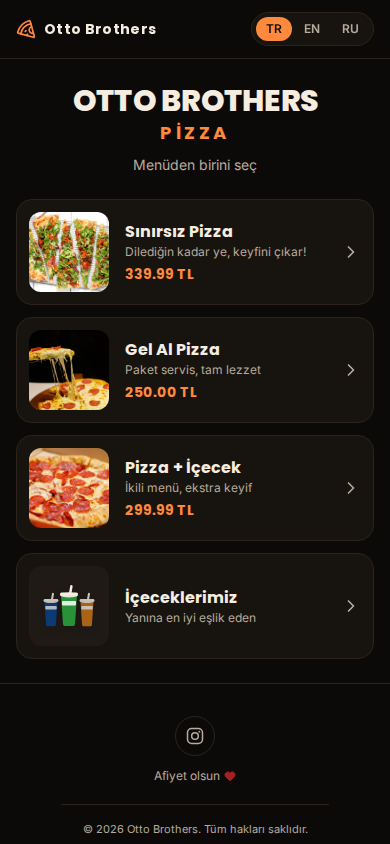
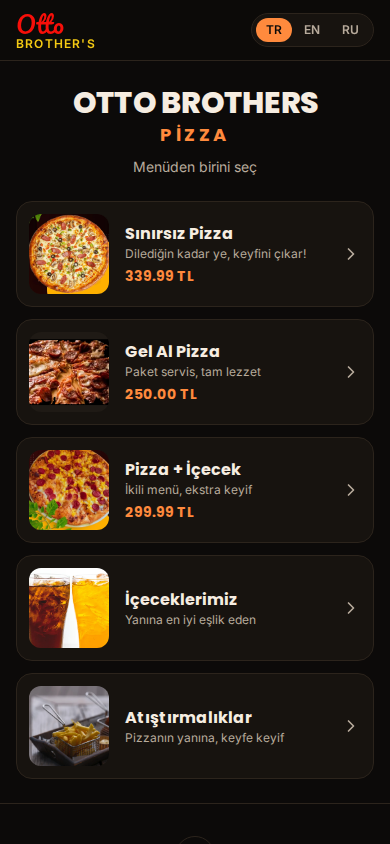
Update README to final state: 5 categories, policy notes, new screenshots

diff --git a/README.md b/README.md
@@ -3,16 +3,20 @@
 Otto Brothers Pizza için hazırlanmış, tamamen ücretsiz araçlarla geliştirilip barındırılan, çok dilli ve animasyonlu bir dijital QR menü.
 
 <p align="center">
-  <img src="docs/screenshots/home.png" width="260" alt="Ana sayfa" />
-  <img src="docs/screenshots/sinirsiz-pizza.png" width="260" alt="Sınırsız Pizza detay sayfası" />
-  <img src="docs/screenshots/icecekler.png" width="260" alt="İçecekler sayfası" />
+  <img src="docs/screenshots/home.png" width="230" alt="Ana sayfa" />
+  <img src="docs/screenshots/sinirsiz-pizza.png" width="230" alt="Sınırsız Pizza detay sayfası" />
+  <img src="docs/screenshots/icecekler.png" width="230" alt="İçecekler sayfası" />
+  <img src="docs/screenshots/atistirmaliklar.png" width="230" alt="Atıştırmalıklar sayfası" />
 </p>
 
 ## Öne çıkanlar
 
-- **4 kategori, tek dokunuşla erişim** — Sınırsız Pizza, Gel Al Pizza, Pizza + İçecek, İçeceklerimiz
+- **5 kategori, tek dokunuşla erişim** — Sınırsız Pizza, Gel Al Pizza, Pizza + İçecek, İçeceklerimiz, Atıştırmalıklar
 - **Pizza dilimi temalı geçiş animasyonu** — kategoriler arası geçişte ve ilk açılışta GSAP ile özel bir "dilim birleşme/dağılma" efekti
+- **İki tonlu marka logosu** — broşürdeki "Otto Brother's" yazısından ilham alan script/bold wordmark, header'da her sayfada görünür
 - **3 dil desteği** — Türkçe, İngilizce, Rusça (react-i18next), tercih tarayıcıda hatırlanır
+- **İşletme politikaları menüde net şekilde belirtilir** — israf bedeli uyarısı, tezgahtan/masadan artan pizzaların sokak hayvanlarına verilmesi, 0-4 yaş çocuklara ücretsiz sınırsız menü
+- **Gerçek ürün fotoğrafları** — pizza çeşitleri ve tüm içecekler (Pepsi, Pepsi Max, 7up, Yedigün, Lipton Ice Tea, Fruko Gazoz) gerçek ürün görselleriyle, tutarlı siyah zeminle
 - **`prefers-reduced-motion` desteği** — animasyonlar erişilebilirlik tercihine göre otomatik sadeleşir
 - **Mobil öncelikli tasarım** — QR ile taranan bir menü olarak %100 telefon deneyimine göre kurgulandı
 
@@ -25,18 +29,18 @@ Otto Brothers Pizza için hazırlanmış, tamamen ücretsiz araçlarla geliştir
 | Stil | Tailwind CSS v4 |
 | Animasyon | GSAP |
 | Çoklu dil | i18next / react-i18next |
-| İkonlar | lucide-react + özel SVG illüstrasyonlar |
+| İkonlar | lucide-react + özel SVG illüstrasyonlar (içecek bardağı, favicon) |
 
 ## Proje yapısı
 
 ```
 src/
 ├── data/menu.js          # Yapısal menü verisi (fiyat, görsel, slug)
-├── locales/*.json        # tr / en / ru çevirileri
+├── locales/*.json        # tr / en / ru çevirileri (metin, politika notları, ürün adları)
 ├── context/               # Sayfa geçişi animasyon context'i (GSAP)
 ├── components/            # Kart, ikon, header/footer, politika bileşenleri
-├── pages/                 # Home, kategori detay sayfaları
-└── hooks/                 # Menü içeriğini dil ile birleştiren hook'lar
+├── pages/                 # Home + kategori detay sayfaları (pizza, içecek, atıştırmalık)
+└── hooks/                 # Menü içeriğini seçili dille birleştiren hook'lar
 ```
 
 ## Geliştirme
@@ -50,7 +54,8 @@ npm run preview   # prod build'i yerelde önizle
 
 ## Notlar
 
-- Pizza ve içecek görselleri, ücretsiz stok fotoğraf kaynaklarından (Unsplash, Pexels) seçilmiştir; marka çakışması olmaması için içecek görsellerinin çoğu markasız/soyut (sıvı + kabarcık) çekimlerdir.
+- Pizza görselleri işletmenin kendi ürün fotoğraflarından; içecek görselleri gerçek ürün fotoğrafları olup tutarlı bir görünüm için siyah zemine oturtulmuştur.
+- Atıştırmalık sepetlerinin fiyatları işletme tarafından henüz belirlenmediği için menüde şimdilik fiyatsız gösterilir; `src/data/menu.js` içindeki `SNACKS` dizisine fiyat eklendiğinde otomatik görünür.
 - Barındırma tamamen ücretsiz katmanlarla (Vercel/GitHub Pages) yapılacak şekilde tasarlanmıştır — backend veya veritabanı gerektirmez.
 
 ---
